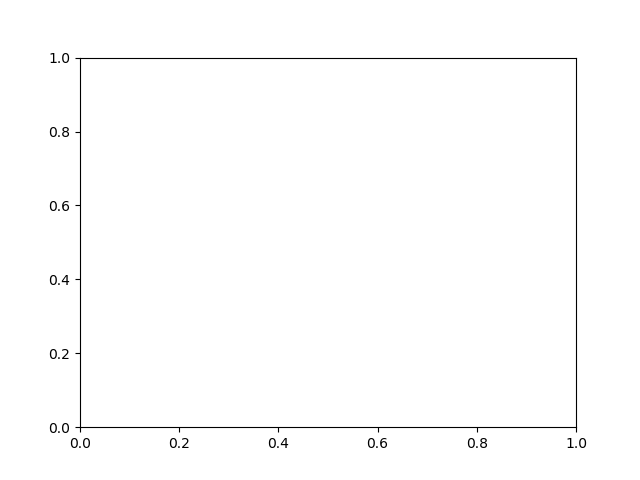
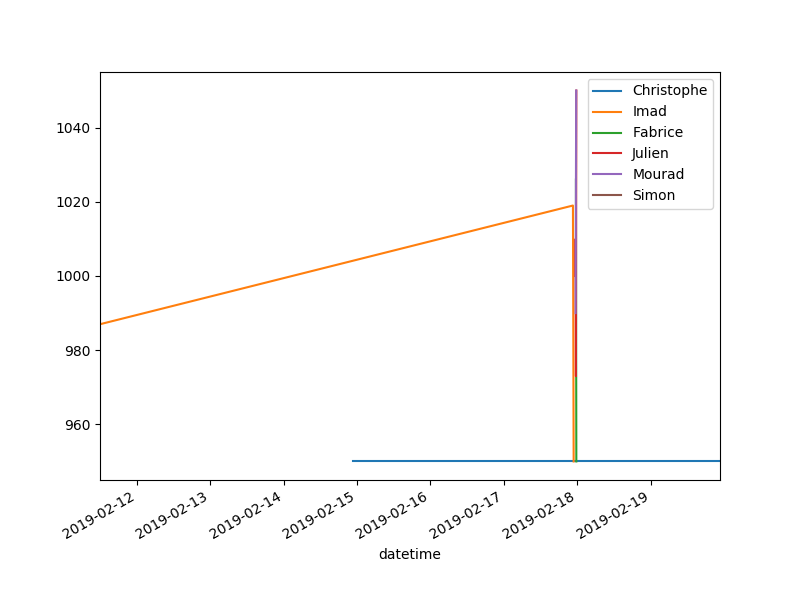
Add ploting for all users

diff --git a/index.html b/index.html
@@ -99,7 +99,7 @@ VS
 <input type="submit" value="Submit">
 </form> 
 
-<img src="elos.png"/>
+<img id="plot" src="elos.png"/>
 <script type="text/javascript">
 
 $(document).ready(function() {
@@ -130,6 +130,8 @@ $("form").submit(function(e) {
            success: function(data)
            {
             console.log(data);
+            $("#plot").attr("src", "elos.png?" + new Date().getTime());
+
            }
          });
 

diff --git a/server.py b/server.py
@@ -25,6 +25,8 @@ class myHandler(BaseHTTPRequestHandler):
             #set the right mime type
 
             sendReply = False
+            self.path = self.path.split("?")[0]
+
             if self.path.endswith(".html"):
                 mimetype='text/html'
                 sendReply = True
@@ -76,7 +78,7 @@ class myHandler(BaseHTTPRequestHandler):
             })
 
             df_scores = pd.read_csv("./scores.csv", header=0)
-            datetime = pd.datetime.now().strftime("%Y-%m-%d %H:%M:%S")
+            datetime = pd.datetime.now()
 
             player1 = form["player1"].value
             player2 = form["player2"].value
@@ -127,14 +129,12 @@ class myHandler(BaseHTTPRequestHandler):
             scores.append(int(score2))
 
             df_scores.loc[len(df_scores)]=new_score_entry
-            df_scores.to_csv("./scores.csv", sep=",", header=True, index=False)
+            df_scores.to_csv("./scores.csv", sep=",", header=True, index=False, date_format="%Y-%m-%d %H:%M:%S")
             
             dateparse = lambda x: pd.datetime.strptime(x, '%Y-%m-%d %H:%M:%S')
             df_elos = pd.read_csv("./elos.csv", header=0, parse_dates=['datetime'], date_parser=dateparse)
-        
-            fig, axes = plt.subplots(nrows=1, ncols=1)
-            #df_elos.loc[df_elos['player'] == "Julien"].plot(x='datetime')
-
+            df_elos.sort_values("datetime")
+ 
             elos = []
 
             for player in players:
@@ -169,7 +169,7 @@ class myHandler(BaseHTTPRequestHandler):
                     updated_elos.append(elos[2] + 100 * ((1 - (max(scores) / (max(scores) + min(scores)))) - expected_scores[1]))
                     updated_elos.append(elos[3] + 100 * ((1 - (max(scores) / (max(scores) + min(scores)))) - expected_scores[1]))
                 
-            for player,updated_elo in zip(players,updated_elos):
+            for player,updated_elo in zip(players, updated_elos):
 
                 new_elo_entry = {
                     "datetime": datetime,   \
@@ -179,9 +179,20 @@ class myHandler(BaseHTTPRequestHandler):
 
                 df_elos.loc[len(df_elos)]=new_elo_entry
 
-            df_elos.to_csv("./elos.csv", sep=",", header=True, index=False)
- 
-            plt.savefig('./elos.png')
+            df_elos.to_csv("./elos.csv", sep=",", header=True, index=False, date_format="%Y-%m-%d %H:%M:%S")
+
+
+            df_players = pd.read_csv("./players.csv", names=["player"])
+
+            fig, ax = plt.subplots(figsize=(8,6))
+
+            for index,row in df_players.iterrows():
+                if (df_elos.player == row["player"]).any():
+                    print(row.player)
+                    df_elos.loc[df_elos.player == row.player].plot(x="datetime", y="elo", ax=ax, label=row.player)
+
+            plt.legend()
+            plt.savefig("./elos.png")
 
             self.send_response(200)
             self.end_headers()
@@ -192,12 +203,10 @@ try:
     #incoming request
     server = HTTPServer(('', PORT_NUMBER), myHandler)
     print('Started httpserver on port ' , PORT_NUMBER)
-    webbrowser.open("localhost:8080", new=0, autoraise=True)
+    webbrowser.open("http://localhost:8080", new=0, autoraise=True)
     #Wait forever for incoming http requests
     server.serve_forever()
 
 except KeyboardInterrupt:
     print('^C received, shutting down the web server')
     server.socket.close()
-    
-
